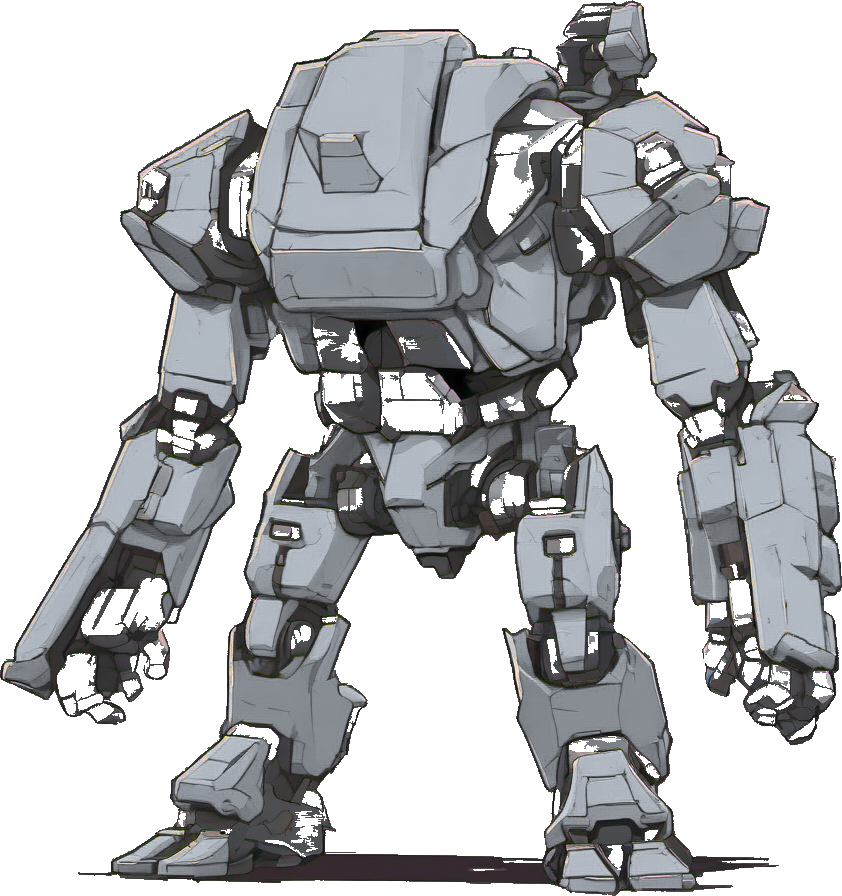
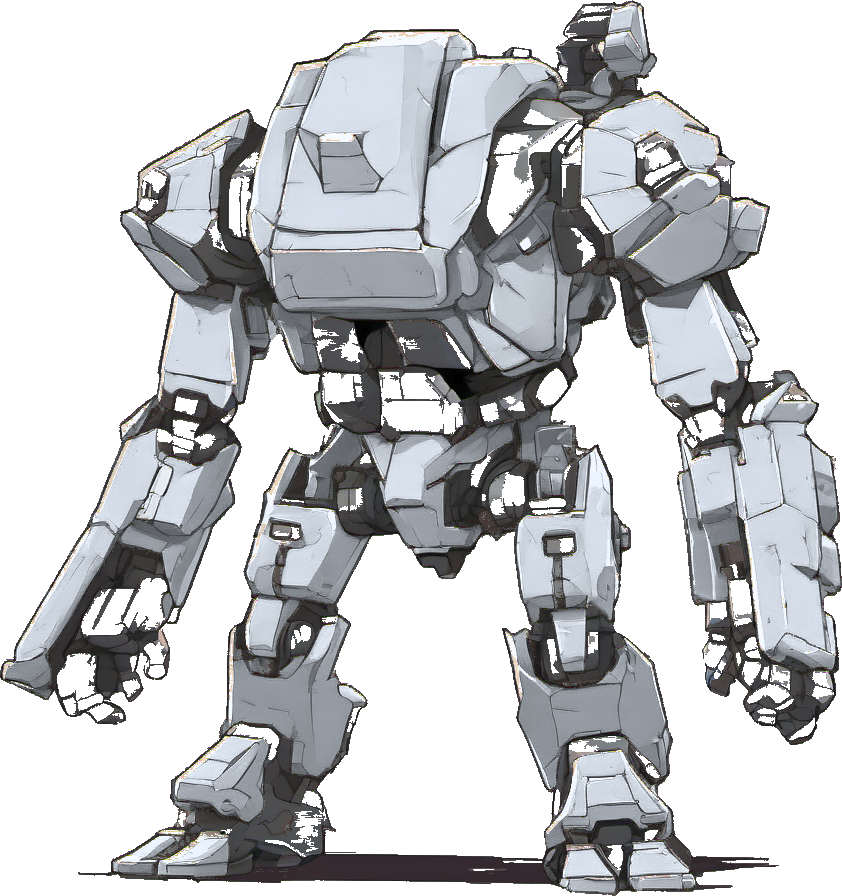
fix(pipeline): scale accent luma, not HSV value, for hue variants
Scaling HSV value made grayscale separation depend on saturation. At full
saturation cyan carries about 1.45x the luminance of orange at equal
value, but the accent is not all full-saturation: shaded faces and
anti-aliased edges sit near neutral, where both hues converge on the same
luma and the ratio collapses toward 1. Averaged over a real sprite the
mean ratio was only 1.19, leaving rush and boom 18/255 apart -- the two
armies were indistinguishable in grayscale.

Scale luma directly instead, solving value per pixel from the luminance
we want and the luminance the new hue and saturation carry at value 1.
Every accent pixel then moves by the same anchor ratio whatever its
saturation. Rush ~98 becomes boom ~133, a delta of 34, and neutral ~165.
No clipping in practice: full-saturation cyan at value 1 carries luma
177, above the 167 the brightest accent asks for. Boom also stops
reading as a muted teal and becomes the neon the anchor intended.

--scale value is kept to reproduce the earlier output, and should not be
used for new work. All ten derived masters regenerated.

This improves the colourblind ownership gap without closing it. At unit
size 34/255 is still marginal, and the locked anchors differ by only 45
luma, so no remap can do better without breaking the palette lock. The
non-hue ownership markers remain the real fix.

Task: S4-02

diff --git a/tools/asset-pipeline/recolor.py b/tools/asset-pipeline/recolor.py
@@ -26,11 +26,20 @@ recolored invisible streak is still invisible -- and the alternative, raising th
 gate above it, leaves an orange fringe on a cyan unit, which is a palette
 violation you *can* see.
 
-How the remap works: hue is replaced outright, while saturation and value are
-*scaled* by the target anchor's ratio to the rush anchor rather than being set
+How the remap works: hue is replaced outright, while saturation and brightness
+are *scaled* by the target anchor's ratio to the rush anchor rather than being set
 flat. That preserves the accent's internal shading -- lit faces, shadowed faces,
 the emissive hot spots -- instead of flattening it into one dead colour. A flat
 fill reads as a sticker at board scale.
+
+Brightness is scaled in LUMA, not in HSV value (`--scale`, default `luma`).
+Scaling value made the grayscale result depend on saturation, so shaded and
+anti-aliased accent barely moved and the two armies ended up only ~18/255 apart
+in grayscale -- indistinguishable. Scaling luma moves every accent pixel's
+luminance by the same anchor ratio and roughly doubles that separation to ~34.
+That is a real improvement but NOT a solution to the colourblind ownership gap:
+at unit size the remaining difference is still subtle, and the non-hue ownership
+markers the art bible defers are what actually fix it.
 
 Neutral is achromatic by design (art bible: the reserved-neon budget is exactly
 two hues), so its variant lands as light silver and carries no hue information at
@@ -102,10 +111,18 @@ def _from_hsv(h: np.ndarray, s: np.ndarray, v: np.ndarray) -> np.ndarray:
     return rgb + (v - c)[..., None]
 
 
-def recolor(path: str, target: str, sat_min: float = ACCENT_SAT_MIN):
+def _luma(rgb: np.ndarray) -> np.ndarray:
+    """Rec.709 relative luminance of a float RGB array in 0..1."""
+    return 0.2126 * rgb[..., 0] + 0.7152 * rgb[..., 1] + 0.0722 * rgb[..., 2]
+
+
+def recolor(path: str, target: str, sat_min: float = ACCENT_SAT_MIN,
+            scale: str = "luma"):
     """Return (RGBA image, accent pixel count) with the accent moved to `target`."""
     if target not in ANCHORS:
         raise ValueError(f"unknown faction {target!r}; expected {sorted(ANCHORS)}")
+    if scale not in ("luma", "value"):
+        raise ValueError(f"unknown scale mode {scale!r}; expected luma or value")
 
     im = Image.open(path).convert("RGBA")
     a = np.array(im)
@@ -124,7 +141,25 @@ def recolor(path: str, target: str, sat_min: float = ACCENT_SAT_MIN):
     # scale, do not flatten: the accent's own light/shadow structure survives
     new_h = np.full_like(h, float(dst_h[0, 0]))
     new_s = np.clip(s * (float(dst_s[0, 0]) / float(src_s[0, 0])), 0.0, 1.0)
-    new_v = np.clip(v * (float(dst_v[0, 0]) / float(src_v[0, 0])), 0.0, 1.0)
+
+    if scale == "value":
+        new_v = np.clip(v * (float(dst_v[0, 0]) / float(src_v[0, 0])), 0.0, 1.0)
+    else:
+        # Scaling VALUE makes the grayscale result depend on saturation: at full
+        # saturation cyan-over-orange lifts luma x1.45, but shaded and
+        # anti-aliased accent sits near neutral where the ratio collapses toward
+        # 1. Averaged over a real sprite that left rush and boom only ~18/255
+        # apart -- the two armies were indistinguishable in grayscale.
+        #
+        # So scale LUMA directly instead: every accent pixel's luminance moves by
+        # the same anchor ratio regardless of its saturation. V is then solved
+        # per pixel from the luma we want and the luma the new hue/sat carries at
+        # V=1. Ownership survives desaturation; the accent's internal shading
+        # still scales proportionally, so nothing flattens.
+        ratio = _luma(np.array(ANCHORS[target], float) / 255.0) / \
+            _luma(np.array(ANCHORS["rush"], float) / 255.0)
+        unit = _from_hsv(new_h, new_s, np.ones_like(v))
+        new_v = np.clip(_luma(rgb) * ratio / np.maximum(_luma(unit), 1e-6), 0.0, 1.0)
 
     out = _from_hsv(np.where(mask, new_h, h),
                     np.where(mask, new_s, s),
@@ -142,13 +177,19 @@ def main() -> None:
     p.add_argument("src", help="an approved master from art-source/cleaned/")
     p.add_argument("dst")
     p.add_argument("faction", choices=sorted(ANCHORS))
+    p.add_argument("--scale", choices=("luma", "value"), default="luma",
+                   help="how the accent's brightness is remapped. 'luma' (default) "
+                        "moves every accent pixel's luminance by the anchor ratio, "
+                        "so the factions stay apart in grayscale. 'value' scales "
+                        "HSV value instead, which collapses that separation on "
+                        "shaded pixels — kept only for reproducing older output")
     p.add_argument("--sat-min", type=float, default=ACCENT_SAT_MIN,
                    help="accent saturation gate (default 0.25). The hue window "
                         "is what protects the armour, so this can stay low; "
                         "raise it only if a sprite has warm non-accent detail")
     args = p.parse_args()
 
-    img, n = recolor(args.src, args.faction, args.sat_min)
+    img, n = recolor(args.src, args.faction, args.sat_min, args.scale)
     if not n:
         print(f"WARN {args.src}: no accent pixels matched — nothing recolored",
               file=sys.stderr)

diff --git a/design/assets/asset-manifest.md b/design/assets/asset-manifest.md
@@ -38,11 +38,15 @@ separation is by **body plan**, not proportion adjectives. Full rationale in
 **★ Hue variants complete (2026-08-19):** all 5 approved assets now exist in **rush / boom /
 neutral** in `art-source/cleaned/` (15 masters). Only rush is generated; boom and neutral are
 derived with `tools/asset-pipeline/recolor.py`, preserving the shared silhouette per rule 1.
-⚠ **Measured accessibility gap:** rendered accent luma is rush ≈100 vs boom ≈119 — a grayscale
-delta of only ~19/255 (7%), so **ownership is currently readable by hue alone**. Role silhouettes
-still separate fine without hue; army ownership does not. The art bible already defers the non-hue
-ownership markers (trim pattern / emblem / silhouette-family trait) — this is the measured number
-for that deferred work.
+**Brightness is remapped in luma, not HSV value** (`recolor.py --scale luma`, the default): value
+scaling made the grayscale result depend on saturation, so shaded accent barely moved and the armies
+sat only ~18/255 apart. Luma scaling roughly doubles it — rush ≈98 vs boom ≈133 (**Δ~34**), neutral
+≈165 (Δ~67 vs rush).
+⚠ **Residual accessibility gap:** Δ34/255 (13%) is a real improvement but **not a fix**. Grayscale
+ownership now reads on *structures* (large trim area) and is still **marginal on units** at 65–74px.
+Role silhouettes separate fine without hue; army ownership does not. The art bible's deferred
+**non-hue ownership markers** (trim pattern / emblem / silhouette-family trait) remain the actual
+fix — this is the measured number for that work.
 
 **★ Cleaned masters (2026-08-19):** every approved base look now has a cut-out, shadow-cleaned
 master in **`art-source/cleaned/`** (tracked in git — unlike the raw generations). **All downstream

diff --git a/design/assets/specs/generation-prompts.md b/design/assets/specs/generation-prompts.md
@@ -184,8 +184,16 @@ Cut out with `--pockets --largest-only` (rule 10).
 >     art-source/cleaned/<asset>_boom_<id>_clean.png boom
 > ```
 > All 5 assets × 3 hues exist in `art-source/cleaned/`. The tool replaces hue outright but
-> **scales** saturation/value by the target anchor's ratio, so the accent keeps its lit/shadow
-> structure instead of flattening into a sticker. Run it on a **cleaned** master, never a raw.
+> **scales** saturation and brightness by the target anchor's ratio, so the accent keeps its
+> lit/shadow structure instead of flattening into a sticker. Run it on a **cleaned** master,
+> never a raw.
+>
+> ★ **Brightness scales in LUMA, not HSV value** (`--scale luma`, the default). Value scaling makes
+> the grayscale result depend on saturation — shaded and anti-aliased accent barely moves — which
+> left rush and boom only ~18/255 apart in grayscale. Luma scaling moves every accent pixel's
+> luminance by the same anchor ratio: **rush ≈98 → boom ≈133 (Δ34), neutral ≈165 (Δ67)**. It also
+> makes boom read as proper neon rather than a muted teal. `--scale value` reproduces the old
+> output and should not be used for new work.
 >
 > ★ **The hue window must wrap past 360°.** Accent pixels blending toward the ink outline drift to
 > ~350°; a naive `hue <= 45` test misses every one, leaving a 1px **orange fringe around each cyan
